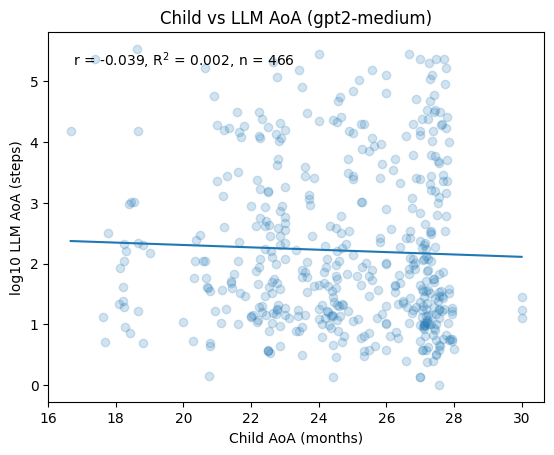
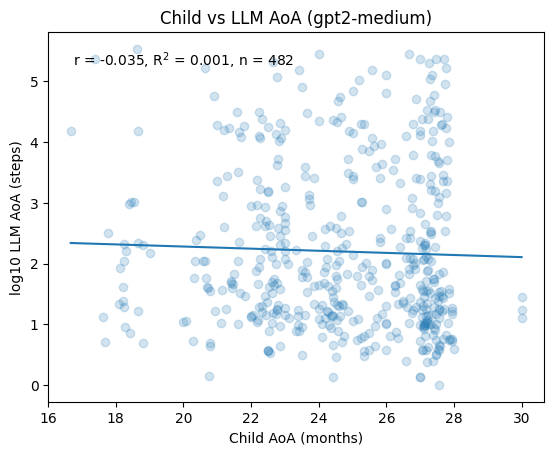
correlation regression

diff --git a/src/experiments/correlation_regression.py b/src/experiments/correlation_regression.py
@@ -1,0 +1,112 @@
+import argparse
+import pickle
+import numpy as np
+import pandas as pd
+import matplotlib.pyplot as plt
+from sklearn.linear_model import LinearRegression
+from plot import *
+from frequency_regression import *
+from simplicity_regression import *
+
+
+def fit_regression_xy(df, x_col, y_col):
+    x = df[x_col].values.astype(float)
+    y = df[y_col].values.astype(float)
+    x_2d = x.reshape(-1, 1)
+    model = LinearRegression().fit(x_2d, y)
+    r2 = model.score(x_2d, y)
+    n = len(df)
+    p = 1
+    adj_r2 = 1 - (1 - r2) * (n - 1) / (n - p - 1) if n > p + 1 else r2
+    r, _ = pearsonr(x, y)
+    return model, r, adj_r2
+
+
+def plot_corr_vs_feature(df, x_col, y_col, model, r, adj_r2, xlabel, ylabel, title_prefix, fig_path):
+    plt.figure()
+    plt.scatter(df[x_col], df[y_col], alpha=0.2)
+    x_line = np.linspace(df[x_col].min(), df[x_col].max(), 200)
+    y_line = model.predict(x_line.reshape(-1, 1))
+    plt.plot(x_line, y_line)
+    plt.xlabel(xlabel)
+    plt.ylabel(ylabel)
+    plt.title(f"{title_prefix}\n r={r:.3f}, adj R²={adj_r2:.3f}, n={len(df)}")
+    plt.tight_layout()
+    plt.savefig(fig_path)
+    plt.close()
+
+
+def main():
+    parser = argparse.ArgumentParser()
+    parser.add_argument("--results_csv", type=str, default="pearson_results_small.csv")
+    parser.add_argument("--freq_dict_path", type=str, default="data/owt_model_frequency.pkl")
+    parser.add_argument("--wordbank_csv", type=str, default="data/wordbank_item_data.csv")
+    parser.add_argument("--out_prefix", type=str, default="figs/small_pearson")
+    parser.add_argument("--corr_col", type=str, default="r_child_surprisal", choices=["r_child_surprisal", "r_child_attention"])
+    args = parser.parse_args()
+
+    df_res = pd.read_csv(args.results_csv)
+
+    with open(args.freq_dict_path, "rb") as f:
+        freq_dict = pickle.load(f)
+    log_freq = compute_log_freq(freq_dict)
+
+    child_interp_aoa = compute_child_interp_aoa(args.wordbank_csv)
+
+    rows = []
+    for _, row in df_res.iterrows():
+        w = row["word"]
+        if w not in log_freq or w not in child_interp_aoa:
+            continue
+        corr_val = row[args.corr_col]
+        if not np.isfinite(corr_val):
+            continue
+        aoa_val = child_interp_aoa[w]
+        if not np.isfinite(aoa_val):
+            continue
+        rows.append(
+            {
+                "word": w,
+                "corr": float(corr_val),
+                "log_freq": float(log_freq[w]),
+                "child_aoa": float(aoa_val),
+            }
+        )
+
+    df = pd.DataFrame(rows)
+
+    model_freq, r_freq, adj_r2_freq = fit_regression_xy(df, "log_freq", "corr")
+    fig_path_freq = f"{args.out_prefix}_corr_vs_logfreq_{args.corr_col}.png"
+    plot_corr_vs_feature(
+        df,
+        x_col="log_freq",
+        y_col="corr",
+        model=model_freq,
+        r=r_freq,
+        adj_r2=adj_r2_freq,
+        xlabel="Word log-frequency",
+        ylabel=f"{args.corr_col}",
+        title_prefix=f"{args.corr_col} vs log-frequency",
+        fig_path=fig_path_freq,
+    )
+
+    model_aoa, r_aoa, adj_r2_aoa = fit_regression_xy(df, "child_aoa", "corr")
+    fig_path_aoa = f"{args.out_prefix}_corr_vs_childaoa_{args.corr_col}.png"
+    plot_corr_vs_feature(
+        df,
+        x_col="child_aoa",
+        y_col="corr",
+        model=model_aoa,
+        r=r_aoa,
+        adj_r2=adj_r2_aoa,
+        xlabel="Child AoA (months)",
+        ylabel=f"{args.corr_col}",
+        title_prefix=f"{args.corr_col} vs child AoA",
+        fig_path=fig_path_aoa,
+    )
+
+
+if __name__ == "__main__":
+    main()
+
+# python src/experiments/correlation_regression.py --results_csv pearson_results_medium.csv --out_prefix figs/medium_pearson

diff --git a/src/experiments/simplicity_regression.py b/src/experiments/simplicity_regression.py
@@ -1,10 +1,54 @@
 import os
 import argparse
-from typing import Dict
 import numpy as np
 import matplotlib.pyplot as plt
 from scipy.stats import pearsonr
 from plot import *
+
+def compute_child_interp_aoa(wordbank_csv: str):
+    months, word_to_curve = load_wordbank_curves(wordbank_csv)
+    months_arr = np.array(months, dtype=float)
+
+    child_interp_aoa = {}
+    for w, curve in word_to_curve.items():
+        curve_arr = np.array(curve, dtype=float)
+        if not np.isfinite(curve_arr).any():
+            continue
+
+        mask = np.isfinite(curve_arr)
+        m = months_arr[mask]
+        y = curve_arr[mask]
+        if m.size < 2:
+            continue
+
+        idx_cross = None
+        for j in range(1, y.size):
+            y_prev = y[j - 1]
+            y_curr = y[j]
+            if not (np.isfinite(y_prev) and np.isfinite(y_curr)):
+                continue
+            if (y_prev - 0.5) * (y_curr - 0.5) <= 0:
+                idx_cross = j
+                break
+
+        if idx_cross is None:
+            continue
+
+        m1, m2 = m[idx_cross - 1], m[idx_cross]
+        y1, y2 = y[idx_cross - 1], y[idx_cross]
+        if not (np.isfinite(y1) and np.isfinite(y2)) or m2 == m1:
+            continue
+
+        if y2 == y1:
+            aoa_month = m2
+        else:
+            aoa_month = m1 + (0.5 - y1) * (m2 - m1) / (y2 - y1)
+
+        if np.isfinite(aoa_month) and aoa_month > 0:
+            child_interp_aoa[w] = float(aoa_month)
+
+    return child_interp_aoa
+
 
 def main():
     parser = argparse.ArgumentParser()
@@ -19,52 +63,16 @@ def main():
     os.makedirs(args.out_dir, exist_ok=True)
 
     word_aoa = load_wordbank_aoa(args.wordbank_csv)
-    months, word_to_curve = load_wordbank_curves(args.wordbank_csv)
 
     steps_small, small_surpr, _ = load_results_dir(args.small_dir)
     steps_medium, medium_surpr, _ = load_results_dir(args.medium_dir)
 
     words_small = set(small_surpr.keys())
     words_medium = set(medium_surpr.keys())
+
     available_words = words_small & words_medium
-
     simple_ranking = get_simple_ranking(word_aoa, available_words, args.max_simple)
-
-    months_arr = np.array(months, dtype=float)
-    child_interp_aoa: Dict[str, float] = {}
-    for w in simple_ranking:
-        if w not in word_to_curve:
-            continue
-        curve = np.array(word_to_curve[w], dtype=float)
-        if not np.isfinite(curve).any():
-            continue
-        mask = np.isfinite(curve)
-        m = months_arr[mask]
-        y = curve[mask]
-        if m.size < 2:
-            continue
-        idx_cross = None
-        for j in range(1, y.size):
-            y_prev = y[j - 1]
-            y_curr = y[j]
-            if not (np.isfinite(y_prev) and np.isfinite(y_curr)):
-                continue
-            if (y_prev - 0.5) * (y_curr - 0.5) <= 0:
-                idx_cross = j
-                break
-        if idx_cross is None:
-            continue
-        m1, m2 = m[idx_cross - 1], m[idx_cross]
-        y1, y2 = y[idx_cross - 1], y[idx_cross]
-        if not (np.isfinite(y1) and np.isfinite(y2)) or m2 == m1:
-            continue
-        if y2 == y1:
-            aoa_month = m2
-        else:
-            aoa_month = m1 + (0.5 - y1) * (m2 - m1) / (y2 - y1)
-        if np.isfinite(aoa_month) and aoa_month > 0:
-            child_interp_aoa[w] = float(aoa_month)
-
+    child_interp_aoa = compute_child_interp_aoa(args.wordbank_csv)
     words_for_aoa = [w for w in simple_ranking if w in child_interp_aoa]
 
     aoa_small_log = compute_llm_aoa_steps(
